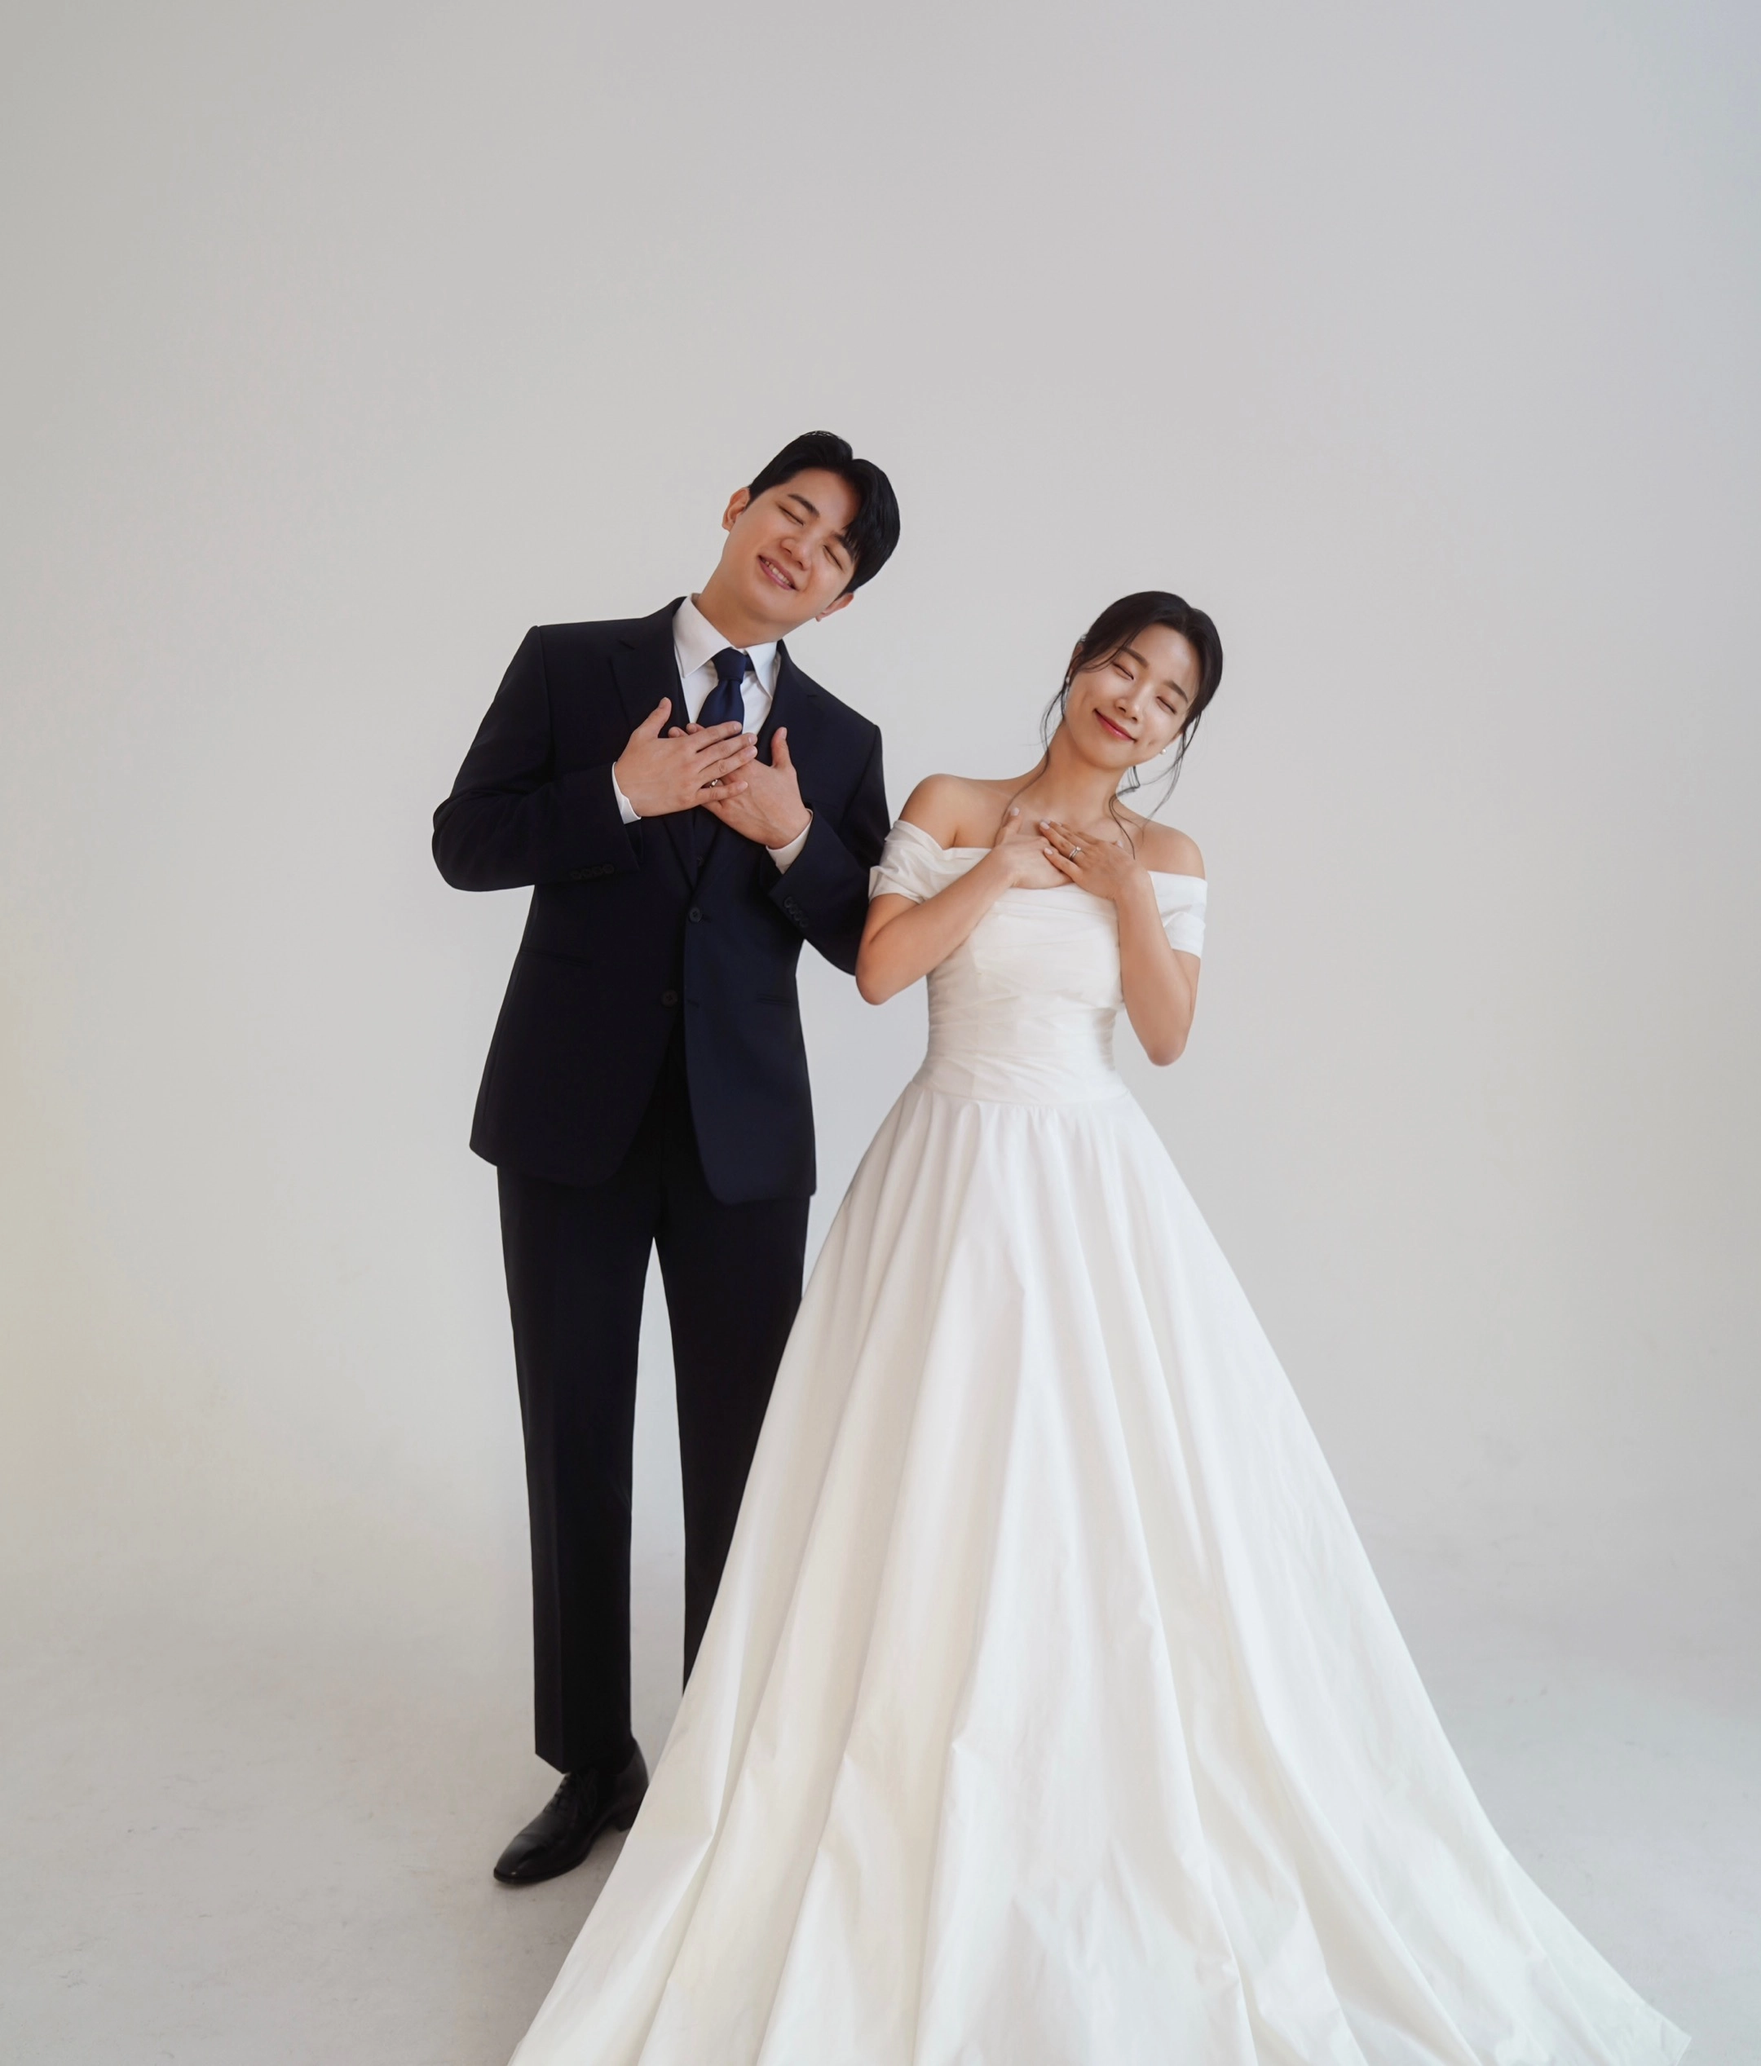
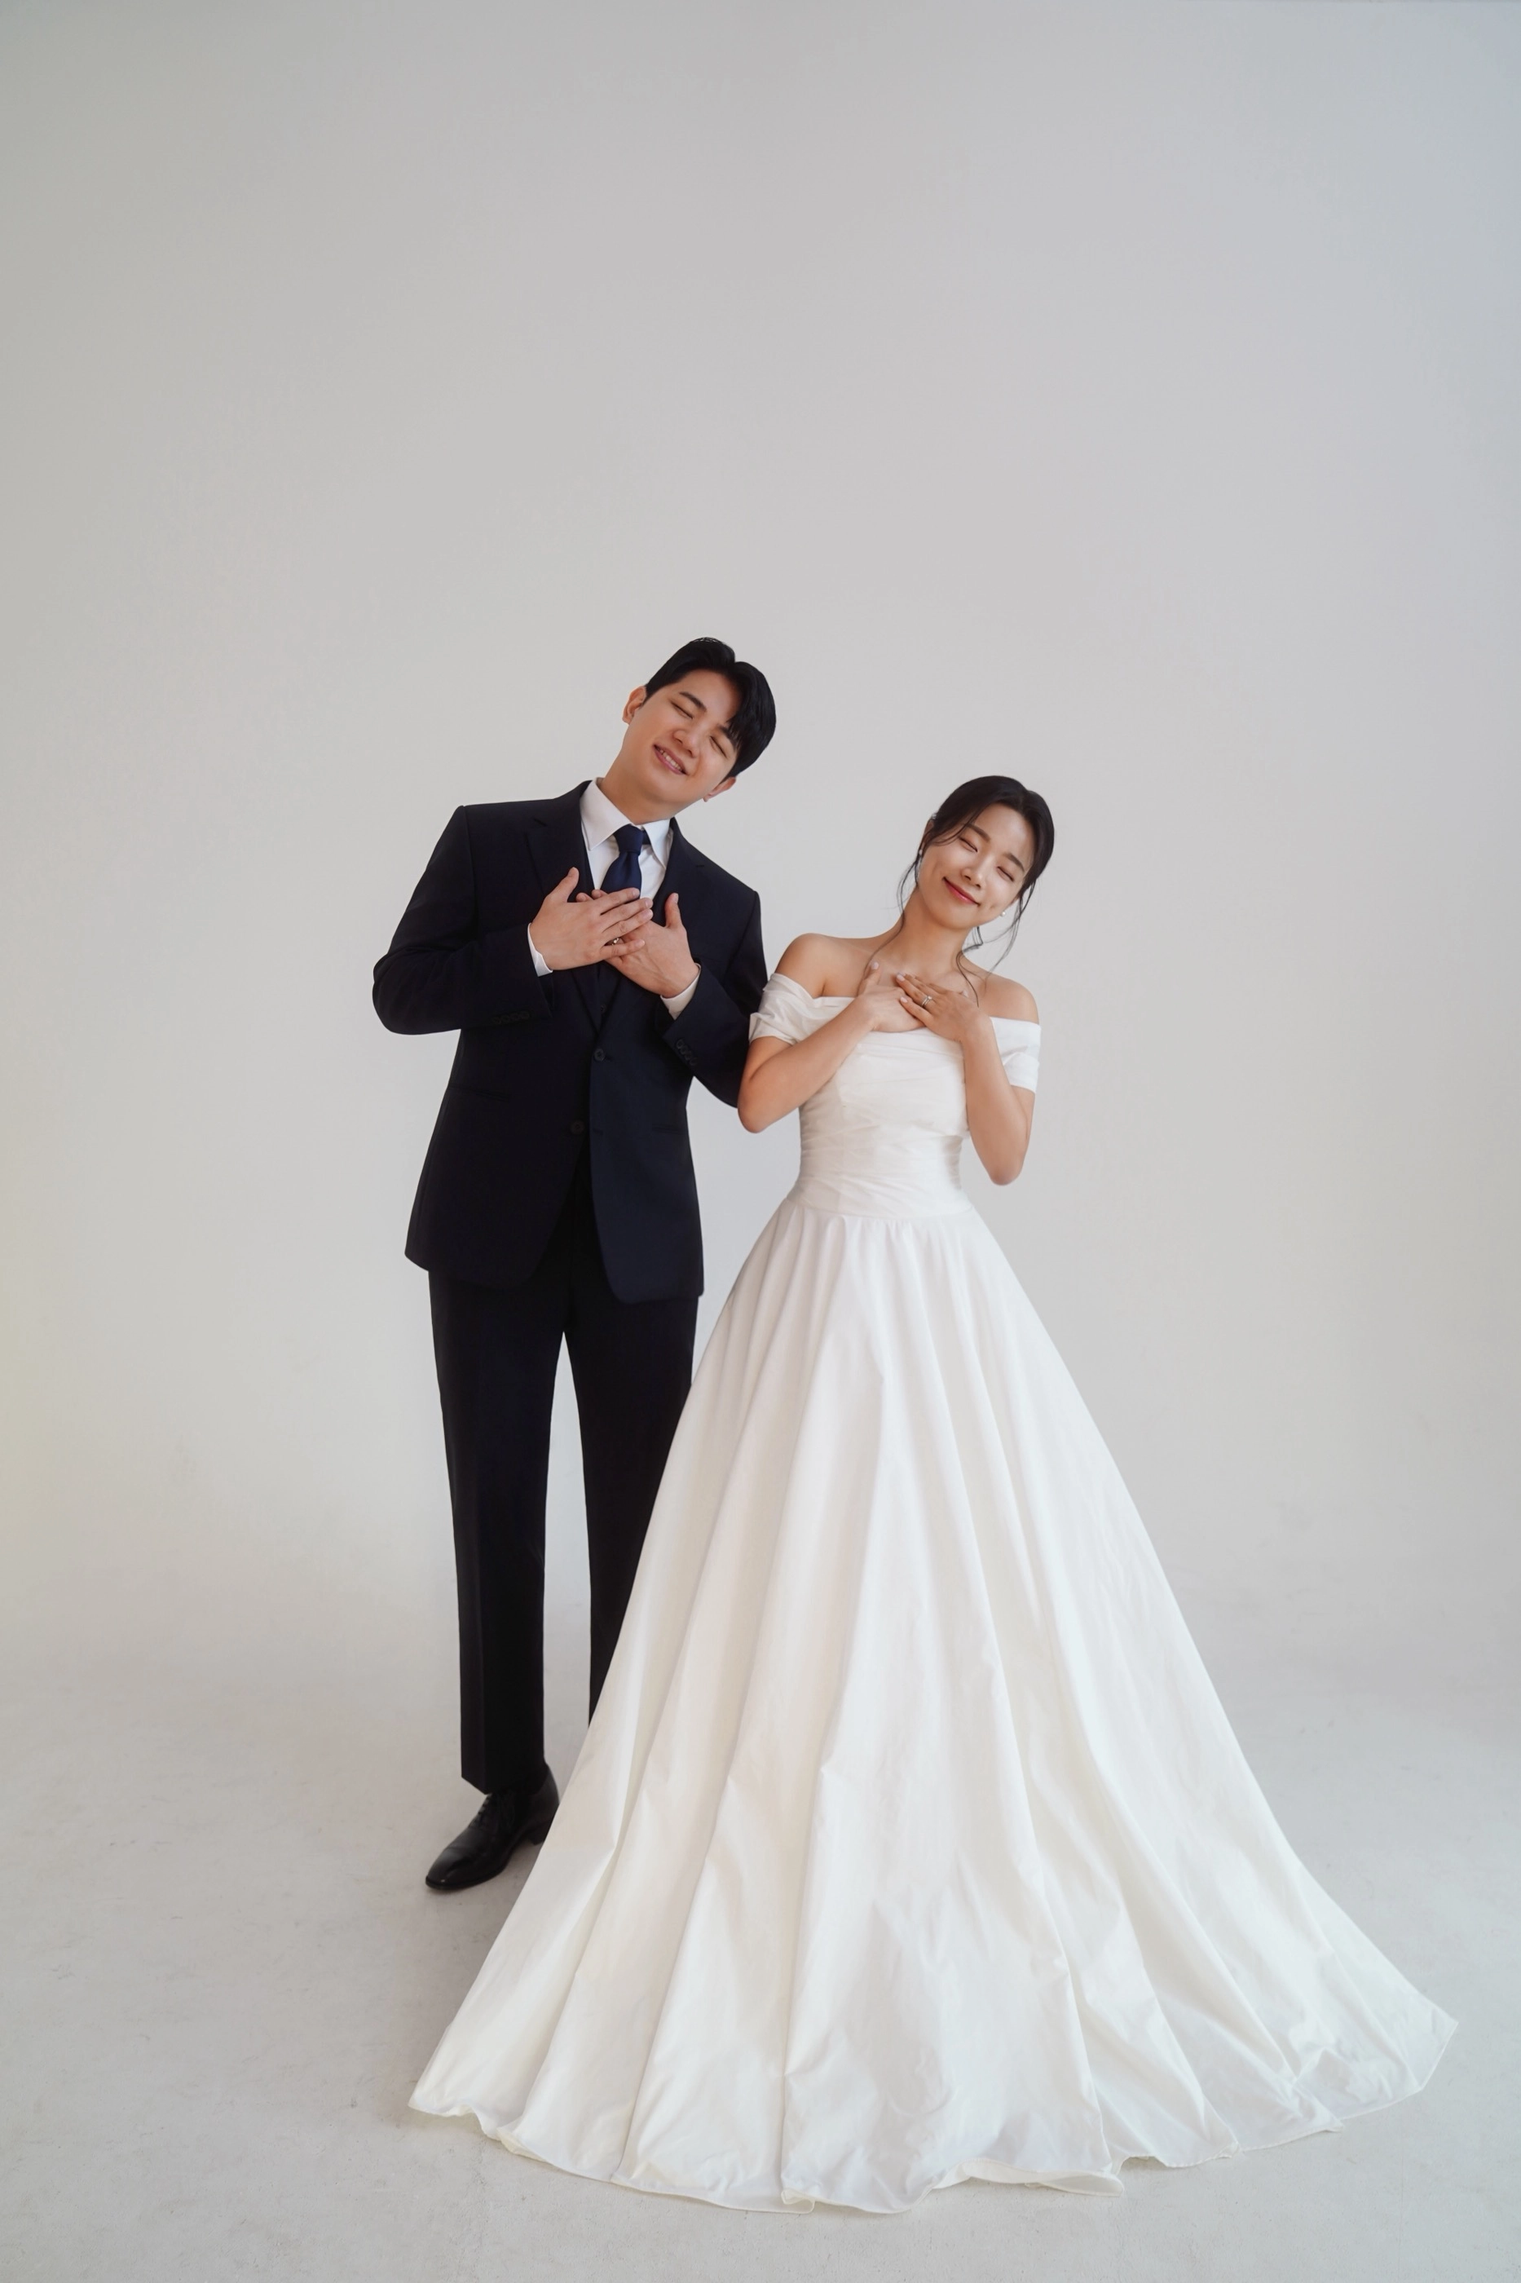
사진 긴걸로 변경

diff --git a/src/components/gallery.svelte b/src/components/gallery.svelte
@@ -191,7 +191,7 @@
 		{ src: photo7, thumbnail: thumbnail7, width: 4000, height: 6000 },
 		{ src: photo8, thumbnail: thumbnail8, width: 4000, height: 6000 },
 		{ src: photo9, thumbnail: thumbnail9, width: 4000, height: 6000 },
-		{ src: photo10, thumbnail: thumbnail10, width: 2160, height: 2534 },
+		{ src: photo10, thumbnail: thumbnail10, width: 1866, height: 2800 },
 		{ src: photo11, thumbnail: thumbnail11, width: 4000, height: 6000 },
 		{ src: photo12, thumbnail: thumbnail12, width: 4000, height: 6000 },
 		{ src: photo13, thumbnail: thumbnail13, width: 4000, height: 6000 },
